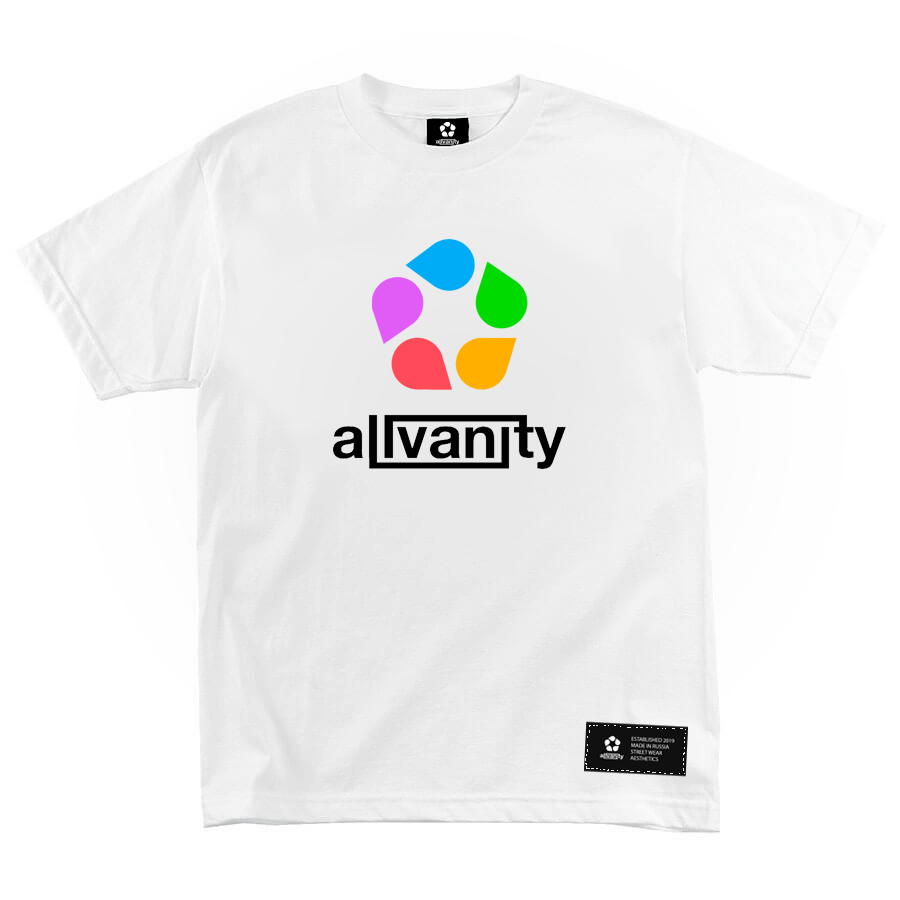
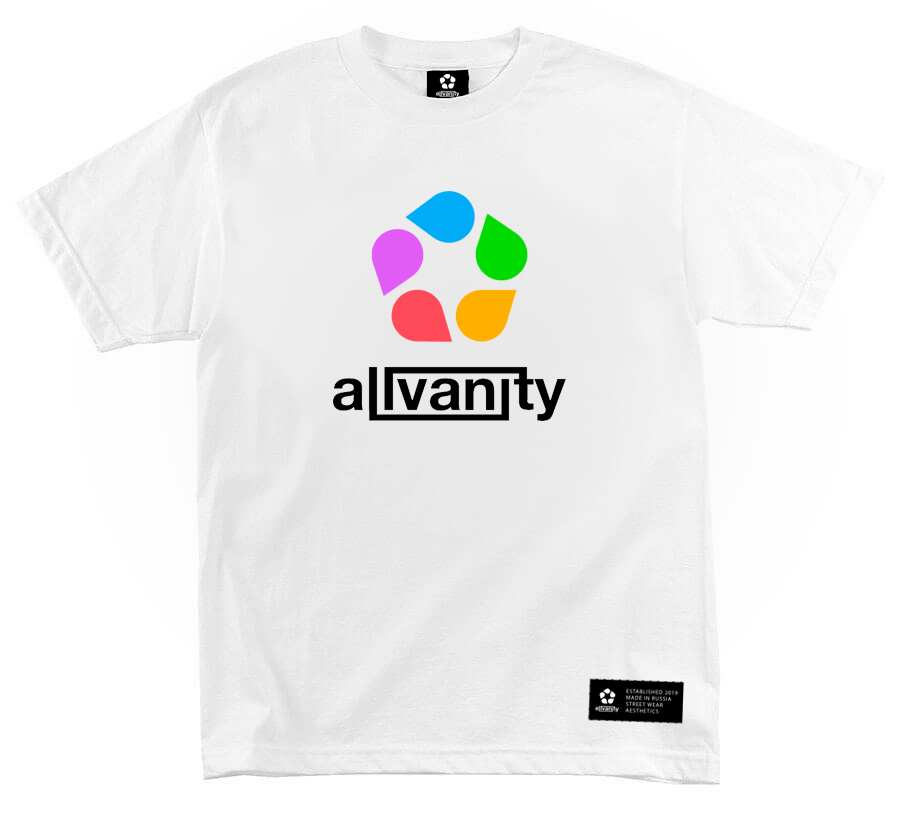
a

diff --git a/index.html b/index.html
@@ -52,9 +52,9 @@
 
     <main class="container">
       <h1 class="visually-hidden">Limited edition</h1>
-      <p>Basic white t-shirt "Original series"</p>
+      <p>Allvanity Basic Logo T-Shirt</p>
 
-      <img src="pic/t-s.jpg" width="900px" height="900px">
+      <img src="pic/t-s.jpg" width="900px" height="822px">
 
       <section class="top">
       </section>
